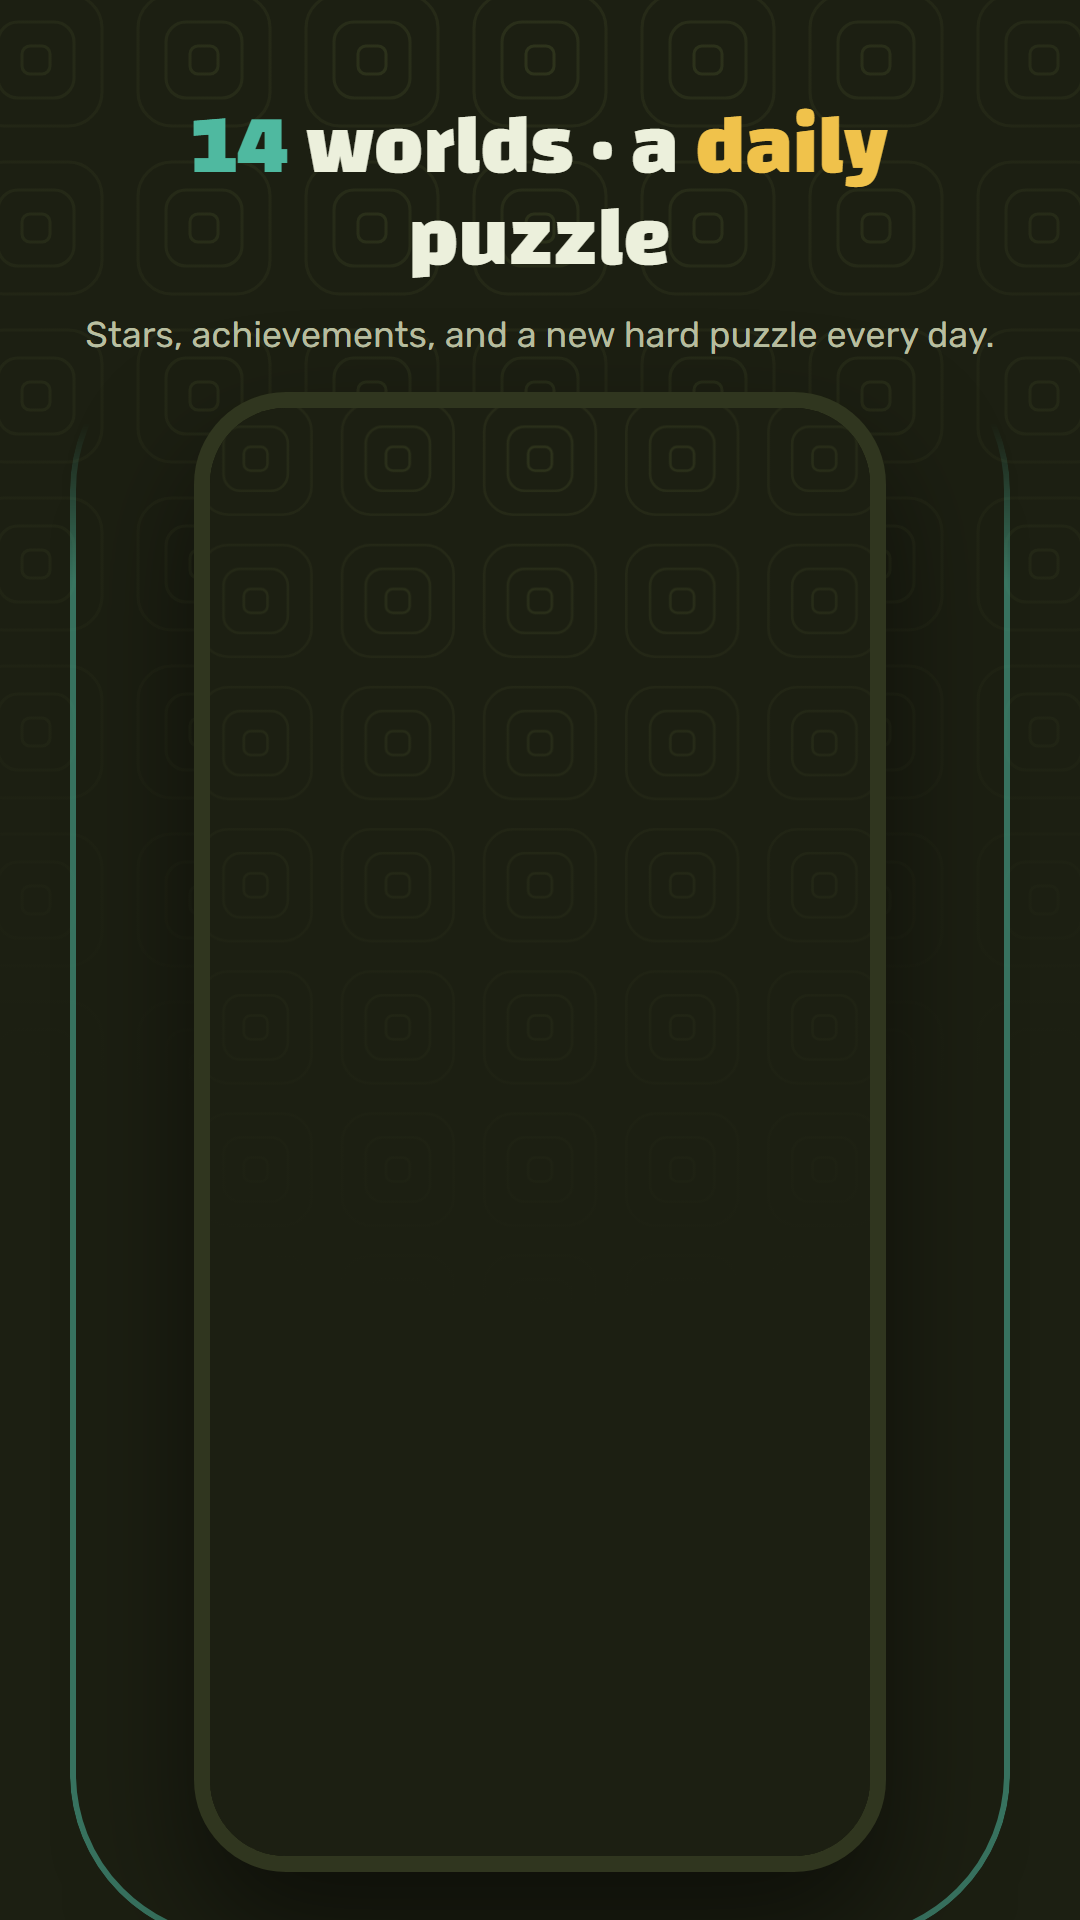
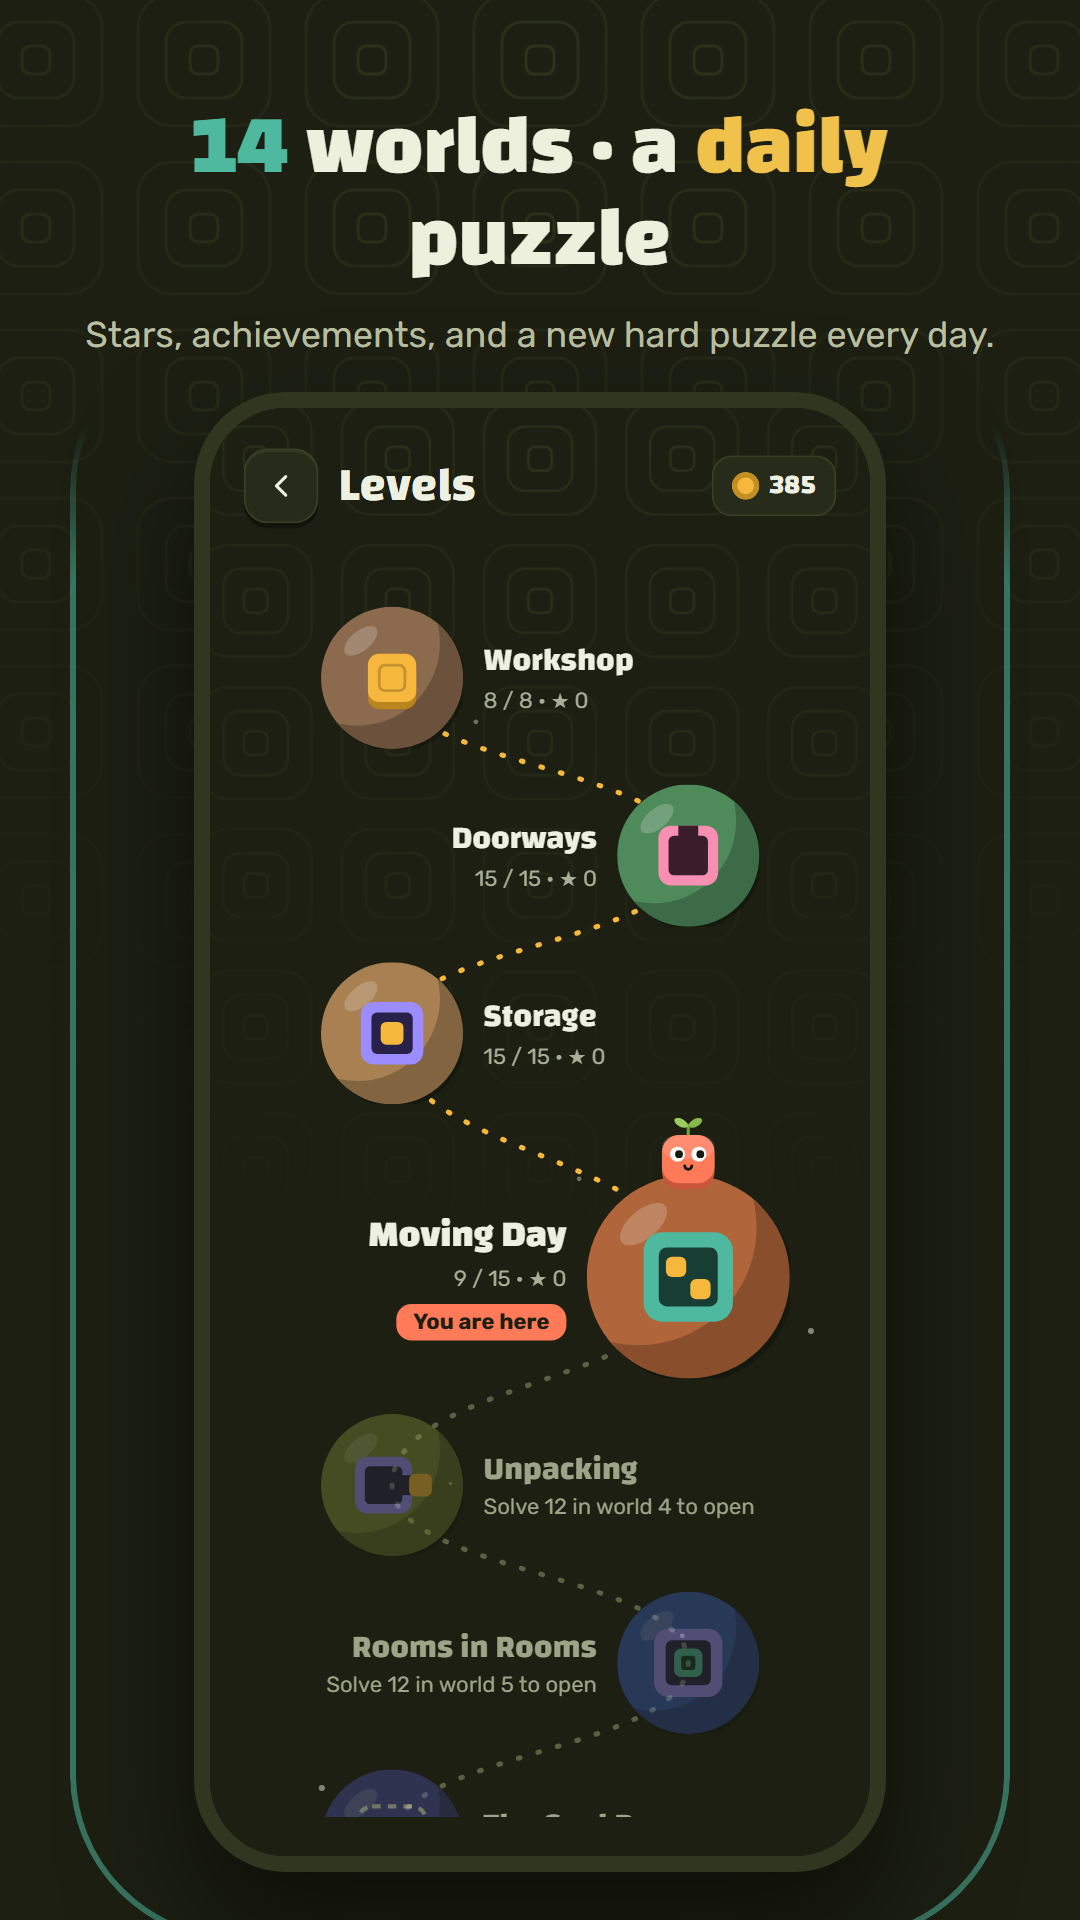
Store screenshot 6: the world map came out empty, render it again

diff --git a/store/src/shot.html b/store/src/shot.html
@@ -84,8 +84,13 @@
     if (Q.get('show')) { M.G.viewWorld = 3; M.show(Q.get('show')); await wait(400); document.title = 'ready'; return; }
     if (S.levels) {
       M.show('levels');
-      await wait(400);
-      W.document.getElementById('level-list').scrollTop = 0;
+      await wait(600);
+      // the map lays itself out from the size of its box; show it again once the frame has its size, or it can come out empty
+      M.show('levels');
+      await wait(500);
+      // the map scrolls itself to the world you are in; go back to the top after it has
+      for (let k = 0; k < 3; k++) { W.document.getElementById('level-list').scrollTop = 0; await wait(250); }
+      if (!W.document.querySelector('#level-list .map-node')) { document.title = 'empty map'; return; }
       document.title = 'ready';
       return;
     }
